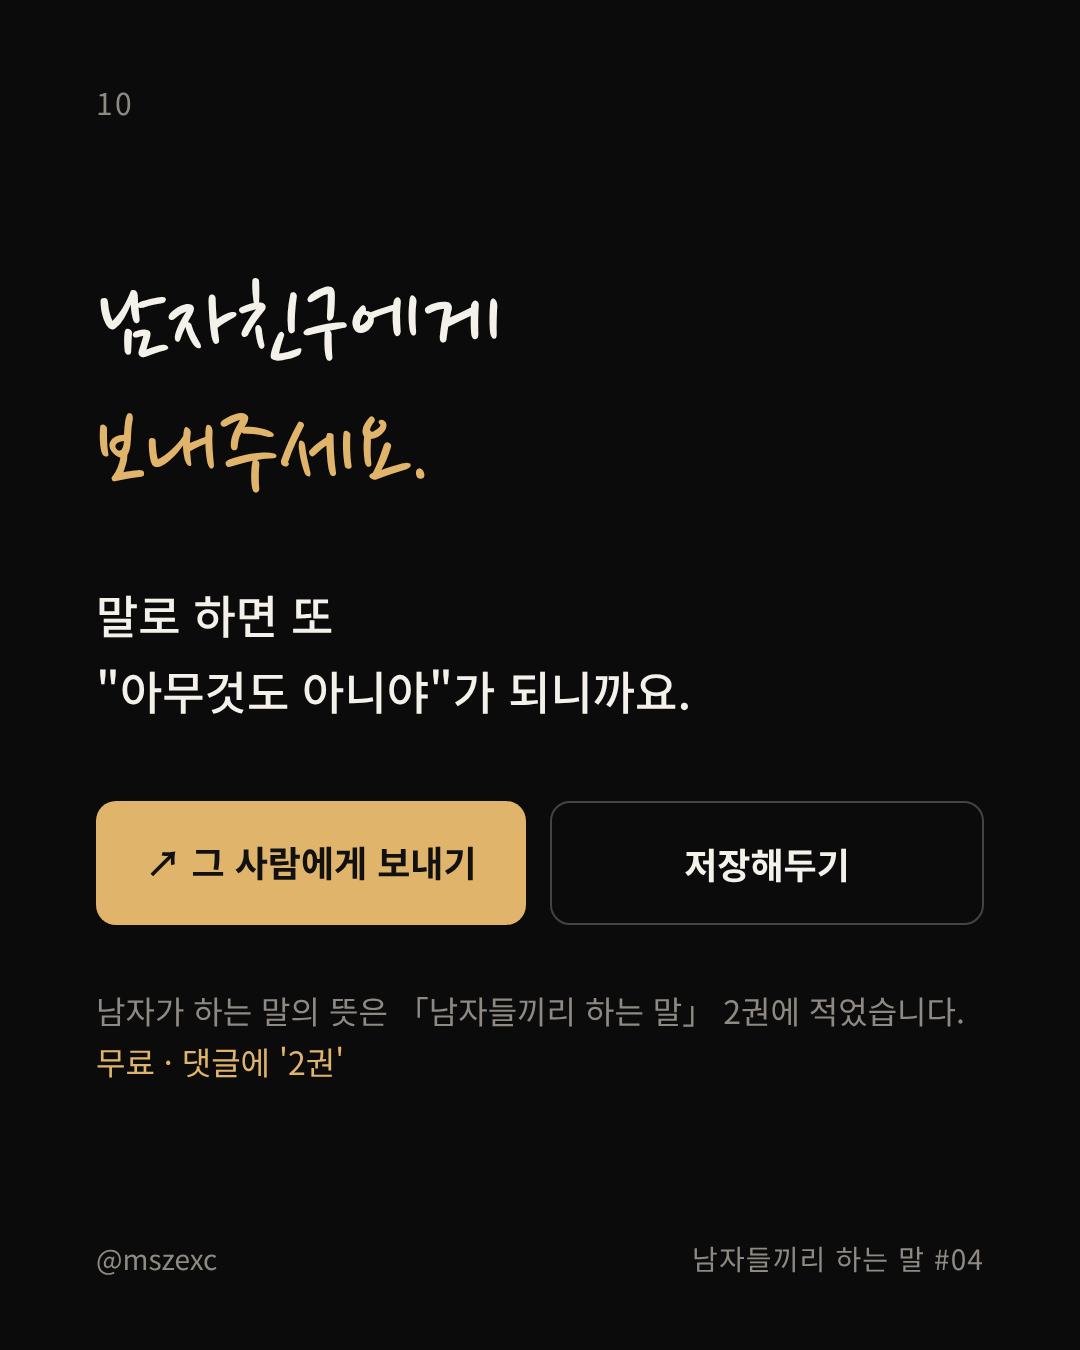
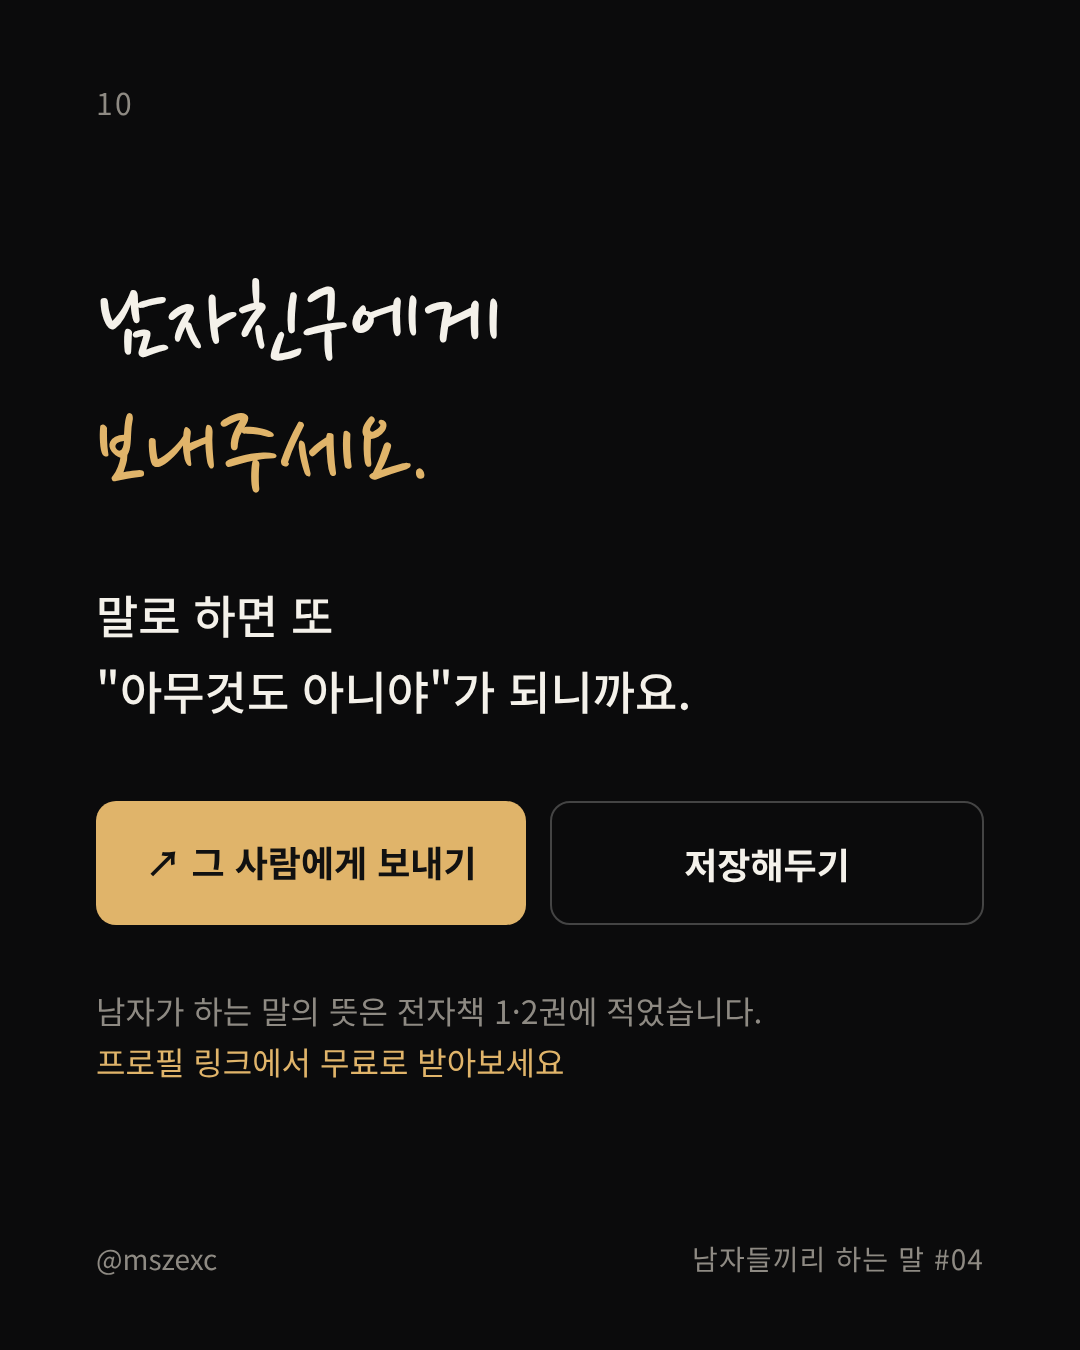
Carousel #04: last slide points to profile link for ebooks 1·2
Claude-Session: https://claude.ai/code/session_01J9i5yL8MFhQ5W67Sx3nDW6

Changed region(s): [[0.0917, 0.7156, 0.7333, 0.8089], [0.7639, 0.7467, 0.8861, 0.7778]]

diff --git a/carousel/carousel_05.html b/carousel/carousel_05.html
@@ -165,7 +165,7 @@
     <div class="btn share">↗ 그 사람에게 보내기</div>
     <div class="btn save">저장해두기</div>
   </div>
-  <div class="sub">남자가 하는 말의 뜻은 「남자들끼리 하는 말」 2권에 적었습니다.<br><span class="accent">무료 · 댓글에 '2권'</span></div>
+  <div class="sub">남자가 하는 말의 뜻은 전자책 1·2권에 적었습니다.<br><span class="accent">프로필 링크에서 무료로 받아보세요</span></div>
   <div class="handle">@mszexc</div>
   <div class="series">남자들끼리 하는 말 #04</div>
 </section>

diff --git a/carousel/caption_05.md b/carousel/caption_05.md
@@ -17,17 +17,16 @@
 말로 하면 또 "아무것도 아니야"가 되니까,
 남자친구에게 이걸 보내주세요.
 
-📕 남자가 하는 말의 뜻은 「남자들끼리 하는 말」 2권에 적었습니다.
-무료로 드립니다 → 댓글에 '2권'
+📕 남자가 하는 말의 뜻은 「남자들끼리 하는 말」 1·2권에 적었습니다.
+프로필 링크에서 무료로 받아보세요.
 
 #연애심리 #남자심리 #여자심리 #커플 #연애 #남자들끼리하는말
 ```
-10/19 이후에 올리면 📕 두 줄을 지우세요.
 
 ## 고정 댓글
 ```
 남자친구 태그해도 됩니다 😌
-2권 받는 법 👉 댓글에 '2권'만 남겨주세요.
+전자책 1·2권은 프로필 링크에 있어요 👆
 ```
 
 ## 메모
